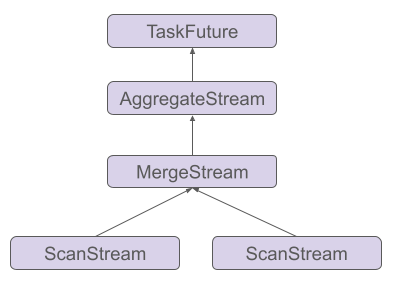
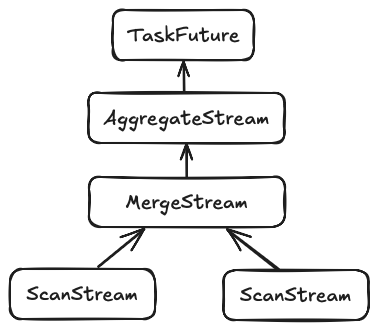
Prettier images. Text revisions.

diff --git a/content/blog/2025-06-30-cancellation.md b/content/blog/2025-06-30-cancellation.md
@@ -1,6 +1,6 @@
 ---
 layout: post
-title: Query Cancellation
+title: The Challenge of Cancelling Long-Running Queries
 date: 2025-06-30
 author: Pepijn Van Eeckhoudt
 categories: [features]
@@ -24,15 +24,32 @@ limitations under the License.
 {% endcomment %}
 -->
 
+<style>
+figure {
+  margin: 20px 0;
+}
 
-## The Challenge of Cancelling Long-Running Queries
+figure img {
+  display: block;
+  max-width: 80%;
+  margin: auto;
+}
+
+figcaption {
+  font-style: italic;
+  color: #555;
+  font-size: 0.9em;
+  max-width: 80%;
+  margin: auto;
+  text-align: center;
+}
+</style>
 
 Have you ever tried to cancel a query that just wouldn't stop?
-In this post, we'll review how Rust's [`async`](https://doc.rust-lang.org/book/ch17-00-async-await.html) model works, how [DataFusion](https://datafusion.apache.org/) uses that model for CPU intensive tasks, and how this is used to cancel queries.
+In this post, we'll review how Rust's [`async` programming model](https://doc.rust-lang.org/book/ch17-00-async-await.html) works, how [DataFusion](https://datafusion.apache.org/) uses that model for CPU intensive tasks, and how this is used to cancel queries.
 Then we'll review some cases where queries could not be canceled in DataFusion and what the community did to resolve the problem.
 
-
-### Understanding Rust's Async Model
+## Understanding Rust's Async Model
 
 DataFusion, somewhat unconventionally, [uses the Rust async system and the Tokio task scheduler](https://docs.rs/datafusion/latest/datafusion/#thread-scheduling-cpu--io-thread-pools-and-tokio-runtimes) for CPU intensive processing.
 To really understand the cancellation problem you first need to be somewhat familiar with Rust's asynchronous programming model which is a bit different from what you might be used to from other ecosystems.
@@ -40,25 +57,34 @@ Let's go over the basics again as a refresher.
 If you're familiar with the ins and outs of `Future` and `async` you can skip this section.
 
 
-#### Futures Are Inert
+### Futures Are Inert
 
 Rust's asynchronous programming model is built around the [`Future<T>`](https://doc.rust-lang.org/std/future/trait.Future.html) trait.
 In contrast to, for instance, Javascript's [`Promise`](https://developer.mozilla.org/en-US/docs/Web/JavaScript/Reference/Global_Objects/Promise) or Java's [`Future`](https://docs.oracle.com/en/java/javase/21/docs/api/java.base/java/util/concurrent/Future.html) a Rust `Future` does not necessarily represent an actively running asynchronous job.
-Instead, a `Future<T>` represents a lazy calculation that only makes progress when explicitly polled.
-If nothing tells a `Future` to try and make progress explicitly, it is [an inert object](https://doc.rust-lang.org/std/future/trait.Future.html#runtime-characteristics).
+Instead, a `Future<T>` represents a lazy calculation that only makes progress when explicitly asked to do so.
+This is done by calling the `poll` method of a `Future`.
+If nobody polls a `Future` to try and make progress explicitly, it is [an inert object](https://doc.rust-lang.org/std/future/trait.Future.html#runtime-characteristics).
 
-You ask a `Future<T>`to advance its calculation as much as possible by calling the `poll` method.
-The `Future` responds with either:
+Calling `Future::poll` results in one of two options:
 
-- [`Poll::Pending`](https://doc.rust-lang.org/std/task/enum.Poll.html#variant.Pending) if it needs to wait for something (like I/O) before it can continue
+- [`Poll::Pending`](https://doc.rust-lang.org/std/task/enum.Poll.html#variant.Pending) if the evaluation is not yet complete, most often because it needs to wait for something like I/O before it can continue
 - [`Poll::Ready<T>`](https://doc.rust-lang.org/std/task/enum.Poll.html#variant.Ready) when it has completed and produced a value
 
 When a `Future` returns `Pending`, it saves its internal state so it can pick up where it left off the next time you poll it.
-This state management is what makes Rust's `Future`s memory-efficient and composable.
-It also needs the necessary signaling to notify the caller when it should call `poll` again, to avoid a busy-waiting loop.
+This internal state management is what makes Rust's `Future`s memory-efficient and composable.
+Rather than having to freeze the full call stack that led to a certain point, only the relevant state to resume the future needs to be retained.
 
-Rust's `async` keyword provides syntactic sugar over this model.
-When you write an `async` function or block, the compiler transforms it into an implementation of the `Future` trait for you.
+Additionally, a `Future` is required to set up the necessary signaling to notify the caller when it should call `poll` again, to avoid a busy-waiting loop.
+This is done using a [`Waker`](https://doc.rust-lang.org/std/task/struct.Waker.html) which the `Future` receives via the `Context` parameter of the `poll` function. 
+
+Manual implementations of `Future` are most often little finite state machines.
+Each step in the process of completing the calculation is modeled as a variant of an enumeration.
+When a `Future` is going to return `Pending`, it bundles up the data required to resume in an enum variant, stores that enum variant in itself, and then returns.
+While compact and efficient, the resulting code is often quite verbose.
+
+The `async` keyword was introduced to make life easier on Rust programmers.
+It provides elegant syntactic sugar for the manual state machine `Future` approach.
+When you write an `async` function or block, the compiler transforms that nice linear code into a state machine based `Future` similar to the one described above for you.
 Since all the state management is compiler generated and hidden from sight, async code tends to be easier to write initially, more readable afterward, and all the while maintains the same underlying mechanics.
 
 The `await` keyword complements `async` by letting you pause execution until a `Future` completes.
@@ -68,7 +94,7 @@ When you `.await` a `Future`, you're essentially telling the compiler to generat
 2. If `poll` returns `Poll::Pending`, save the state of the `Future` so that it can resume at this point and return `Poll::Pending`
 3. If it returns `Poll::Ready(value)`, continue execution with that value
 
-#### From Futures to Streams
+### From Futures to Streams
 
 The [`futures`](https://docs.rs/futures/latest/futures/) crate extends the `Future` model with a trait named [`Stream`](https://docs.rs/futures/latest/futures/prelude/trait.Stream.html).
 `Stream<Item = T>` represents a sequence of values that are each produced asynchronously rather than just a single value.
@@ -80,14 +106,21 @@ The `Stream` trait has one method named `poll_next` that returns:
 - `Poll::Ready(Some(value))` when a new value is available
 - `Poll::Ready(None)` when the stream is exhausted
 
-### How DataFusion Executes Queries
+Under the hood, an implementation of `Stream` is very similar to a `Future`.
+Typically, they're also implemented as state machines, the main difference being that they produce multiple values rather than just one.
+Just like `Future`, a `Stream` is inert unless explicitly polled.
+
+## How DataFusion Executes Queries
 
 In DataFusion, the short version of how queries are executed is as follows (you can find more in-depth coverage of this in the [DataFusion documentation](https://docs.rs/datafusion/latest/datafusion/#streaming-execution)):
 
 1. First the query is compiled into a tree of [`ExecutionPlan`](https://docs.rs/datafusion/latest/datafusion/physical_plan/trait.ExecutionPlan.html) nodes
 2. [`ExecutionPlan::execute`](https://docs.rs/datafusion/latest/datafusion/physical_plan/trait.ExecutionPlan.html#tymethod.execute) is called on the root of the tree. 
 3. This method returns a `SendableRecordBatchStream` (a pinned `Box<dyn Stream<RecordBatch>>`)
-3. `Stream::poll_next` is called in a loop to get the results
+4. `Stream::poll_next` is called in a loop to get the results
+
+In other words, the execution of a DataFusion query boils down to polling an asynchronous stream.
+Like all `Stream` implementations, we need to explicitly poll the stream in order to get the query to make progress. 
 
 The `Stream` we get in step 2 is actually the root of a tree of `Streams` that mostly mirrors the execution plan tree.
 Each stream tree node processes the record batches it gets from its children.
@@ -109,10 +142,14 @@ This is fundamentally different from preemptive scheduling that you might be use
 - In cooperative scheduling, tasks must voluntarily yield control back to the scheduler
 
 This distinction is crucial for understanding our cancellation problem.
-When a Tokio task is running, it can't be forcibly interrupted - it must cooperate by periodically yielding control.
+
+A task in Tokio is modeled as a `Future` which is passed to on of the task initiation functions like [`spawn`](https://docs.rs/tokio/latest/tokio/task/fn.spawn.html).
+Tokio runs the task by calling `Future::poll` in a loop until it returns `Poll::Ready`.
+While that `Future::poll` call is running, Tokio has no way to forcibly interrupt it.
+It must cooperate by periodically yielding control, either by returning `Poll::Pending` or `Poll::Ready`.
 
 Similarly, when you try to abort a task by calling [`JoinHandle::abort()`](https://docs.rs/tokio/latest/tokio/task/struct.JoinHandle.html#method.abort), the Tokio runtime can't immediately force it to stop.
-You're just telling Tokio: "When this task next yields control, don't resume it."
+You're just telling Tokio: "When this task next yields control, don't call `Future::poll` anymore."
 If the task never yields, it can't be aborted.
 
 ### The Cancellation Problem
@@ -279,13 +316,10 @@ Unfortunately, no.
 Let's look at what happens when we start combining operators in more complex configurations.
 Suppose we create a plan like this.
 
-```
-          Merge       
-      ┌─────┴─────┐   
-    Filter  CountingSource
-      │               
-CountingSource            
-```
+<figure>
+  <img src="/blog/images/task-cancellation/merge_plan.png" alt="Diagram showing a plan that merges two branches that return Pending at different intervals.">
+  <figcaption>A plan that merges two branches by alternating between them.</figcaption>
+</figure>
 
 Each `CountingSource` produces a `Pending` every 128 batches.
 The filter is the standard DataFusion filter, with a filter expression that drops a batch every 50 record batches.
@@ -307,33 +341,35 @@ Luckily the [developers of Tokio ran into the exact same problem](https://tokio.
 Back in 2020, Tokio 0.2.14 introduced a per-task operation budget.
 Rather than having individual counters littered throughout the code, the Tokio runtime itself manages a per task counter which is decremented by Tokio resources.
 When the counter hits zero, all resources start returning `Pending`.
-The task will then yield, after which the Tokio runtime resets the counter. This process is illustrated in Figure 1 and 2 below.
+The task will then yield, after which the Tokio runtime resets the counter.
 
+To illustrate what this process looks like, let's have a look at the execution of the following query `Stream` tree when polled in a Tokio task.
 
-<img
-src="/blog/images/task-cancellation/tokio_budget_plan.png"
-width="300px"
-class="img-responsive"
-alt="Diagram showing a plan with a task, AggregateExec, MergeStream and Two sources."
+<figure>
+    <img src="/blog/images/task-cancellation/tokio_budget_plan.png" alt="Diagram showing a plan with a task, AggregateExec, MergeStream and Two sources."/>
+    <figcaption>Query plan for aggregating a sorted stream from two sources. Each source reads a stream of `RecordBatch`es, which are then merged into a single Stream by the `MergeStream` operator which is then aggregated by the `AggregateExec` operator. Arrows represent the data flow direction</figcaption>
+</figure>
+
+If we assume a task budget of 1 unit, each time Tokio schedules the task would result in the following sequence of function calls.
+
+<figure>
+<img src="/blog/images/task-cancellation/tokio_budget.png" style="width: 100%; max-width: 100%" class="img-responsive" alt="Sequence diagram showing how the tokio task budget is used and reset."
 />
+<figcaption>Tokio task budget system, assuming the task budget is set to 1, for the plan above.</figcaption>
+</figure>
 
-**Figure 1**: Query plan for aggregating a sorted stream from two
-sources. Each source reads a stream of `RecordBatch`es, which are then merged
-into a single Stream by the `MergeStream` operator which is
-then aggregated by the `AggregateExec` operator.
+The aggregation stream would try to poll the merge stream in a loop.
+The first iteration of the loop consumes the single unit of budget, and returns `Ready`.
+The second iteration polls the merge stream again which now tries to poll the second scan stream.
+Since there is no budget remaining `Pending` is returned.
+The merge stream may now try to poll the first source stream again, but since the budget is still depleted `Pending` is returned as well.
+The merge stream now has no other option than to return `Pending` itself as well, causing the aggregation to break out of its loop.
+The `Pending` result bubbles all the way up to the Tokio runtime, at which point the runtime regains control.
+When the runtime reschedules the task, it resets the budget and calls `poll` on the task `Future` again for another round of progress.
 
-<img
-src="/blog/images/task-cancellation/tokio_budget.png"
-width="787px"
-class="img-responsive"
-alt="Sequence diagram showing how the tokio task budget is used and reset."
-/>
-
-**Figure 2**: Tokio task budget system, assuming the task budget is set to 1, for the plan in Figure 1. 
-The first iteration of the loop consumes the budget, and returns `Ready`. The
-second iteration has no budget remaining, so returns `Pending` and yields
-control back to the Tokio runtime. The runtime then resets the budget and calls
-`poll_next` again.
+The key mechanism that makes this work well is the single task budget that's shared amongst all the scan streams.
+Once the budget is depleted, no streams can make any further progress.
+This causes all possible avenues the task has to make progress to return `Pending` which results in the task being nudged towards yielding control.
 
 As it turns out DataFusion was already using this mechanism implicitly.
 Every exchange-like operator (such as `RepartitionExec`) internally makes use of a Tokio multiple producer, single consumer [`Channel`](https://tokio.rs/tokio/tutorial/channels).
@@ -345,6 +381,10 @@ without such operators, such as when using a single core.
 ### Depleting The Tokio Budget
 
 Let's revisit our original `CountingStream` and adapt it to use Tokio's budget system.
+
+The examples given here make use of functions from the Tokio `coop` module that are still internal at the time of writing.
+[PR #7405](https://github.com/tokio-rs/tokio/pull/7405) on the Tokio project will make these accessible for external use.
+The current DataFusion code emulates these functions as well as possible using [`has_budget_remaining`](https://docs.rs/tokio/latest/tokio/task/coop/fn.has_budget_remaining.html) and [`consume_budget`](https://docs.rs/tokio/latest/tokio/task/coop/fn.consume_budget.html).
 
 ```rust
 struct BudgetSourceStream {
@@ -398,7 +438,7 @@ It does so unless `made_progress` is called.
 This ensures that if we exit early from our `poll_next` implementation by returning `Pending`, that the budget we had consumed becomes available again.
 The task that invoked `poll_next` can then use that budget again to try to make some other `Stream` (or any resource for that matter) make progress.
 
-### Making It Automatic
+## Automatic Cooperation For All Operators
 
 DataFusion 49.0.0  integrates the Tokio task budget based fix in all built-in source operators.
 This ensures that going forward, most queries will automatically be cancelable. 
@@ -413,7 +453,7 @@ These two changes combined already make it very unlikely you'll encounter anothe
 For those situations where the automatic mechanisms are still not sufficient, there's a third addition in the form of the `datafusion::physical_plan::coop` module.
 This new module provides utility functions that make it easy to adopt cooperative scheduling in your custom operators as well.  
 
-### Acknowledgments
+## Acknowledgments
 
 Thank you to [Datadobi] for sponsoring the development of this feature and to
 the DataFusion community contributors including [Qi Zhu] and [Mehmet Ozan
@@ -424,7 +464,7 @@ Kabak].
 [Qi Zhu]: https://github.com/zhuqi-lucas
 [Mehmet Ozan Kabak]: https://github.com/ozankabak
 
-### About DataFusion
+## About DataFusion
 
 [Apache DataFusion] is an extensible query engine toolkit, written
 in Rust, that uses [Apache Arrow] as its in-memory format. DataFusion and
